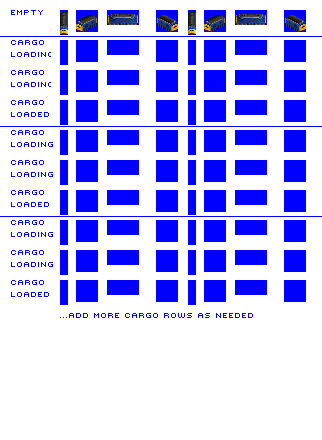
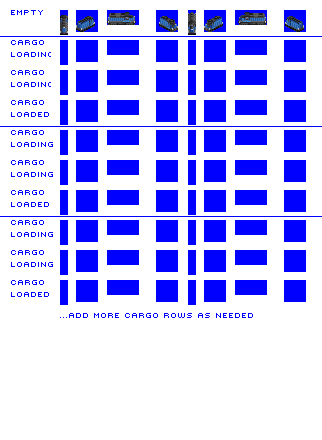
Change: added sprites for the Geep (DanMacK) (closes #6366)

Changed region(s): [[0.4658, 0.0295, 0.8385, 0.0886], [0.1863, 0.0295, 0.4348, 0.0886], [0.8696, 0.0295, 0.9627, 0.0886]]

diff --git a/src/vehicles/geep.py b/src/vehicles/geep.py
@@ -22,3 +22,7 @@ vehicle = DieselLoco(id = 'geep',
 vehicle.add_model_variant(intro_date=0,
                        end_date=global_constants.max_game_date,
                        spritesheet_suffix=0)
+
+vehicle.add_model_variant(intro_date=0,
+                       end_date=global_constants.max_game_date,
+                       spritesheet_suffix=1)
